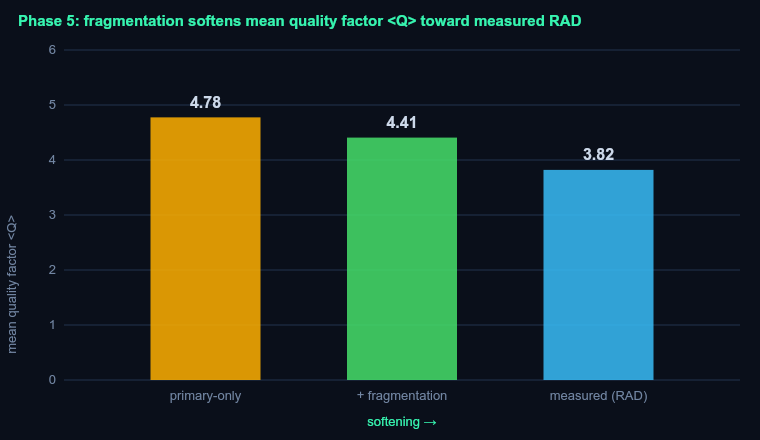
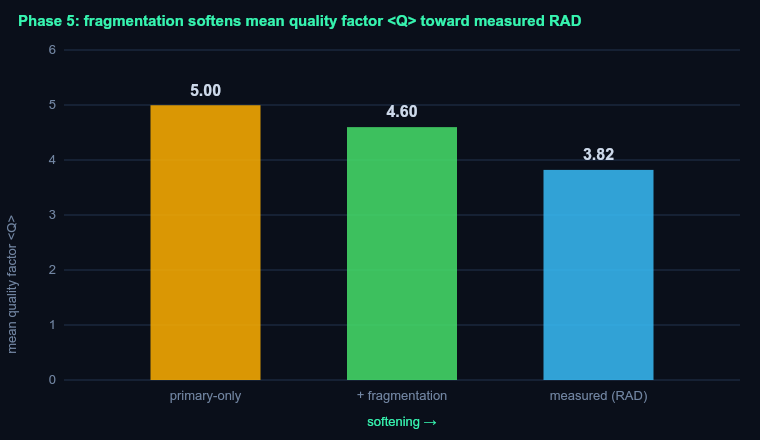
report: regenerate for W = 47.50 and the 0.20 GCR-flux uncertainty
Output of npm run report on this tree; regenerated byte-identical before commit.

Changed region(s): [[0.4539, 0.2364, 0.6053, 0.325], [0.1816, 0.1773, 0.3632, 0.2659]]

diff --git a/src/report/generateReport.ts b/src/report/generateReport.ts
@@ -20,7 +20,7 @@ import { computeShieldedDose } from '../dose/shieldedDose.js';
 import { computeFragmentedDose } from '../dose/fragmentedDose.js';
 import { interactionMFP } from '../physics/fragmentation.js';
 import { computeValidationSummary } from '../validation/validationSummary.js';
-import { doseRelUncertainty } from '../validation/uncertainty.js';
+import { doseRelUncertainty, GCR_FLUX_REL_UNC } from '../validation/uncertainty.js';
 import type { RadComparison } from '../dose/radComparison.js';
 import { RAD_CRUISE } from '../../data/rad/zeitlin2013.js';
 import { W_SOLAR_MIN, W_CRUISE_2012 } from '../../data/gcr/matthia2013.js';
@@ -270,8 +270,8 @@ below aluminium; polyethylene — the best *solid* — beats aluminium by **${fx
 
 ## 4. MSL/RAD cruise-dose validation (the headline number)
 
-Model run at the cruise solar modulation (φ≈${RAD_CRUISE.phi_MV_low}–${RAD_CRUISE.phi_MV_high} MV → Matthiä W≈${W_CRUISE_2012})
-behind ≈${RAD_CRUISE.shielding_gcm2} g/cm² Al-equivalent shielding — set **independently** of the measurement.
+Model run at the cruise solar modulation W = ${fx(W_CRUISE_2012, 2)}, derived from the OULU neutron-monitor mean over the Zeitlin et al. (2013) averaging window, excluding the days of the five SEP events listed by Guo et al. (2015), via the Matthiä relation (cruise φ≈${RAD_CRUISE.phi_MV_low}–${RAD_CRUISE.phi_MV_high} MV, Guo et al. 2015),
+behind ≈${RAD_CRUISE.shielding_gcm2} g/cm² of aluminium (Guo 2015 average depth; mixed materials represented as Al) — no constant fitted to the validation data.
 
 | quantity | model | measured (RAD) | ratio |
 |---|---|---|---|
@@ -280,11 +280,11 @@ behind ≈${RAD_CRUISE.shielding_gcm2} g/cm² Al-equivalent shielding — set **
 | mean quality ⟨Q⟩ | ${fx(rad.model.Q)} | ${fx(rad.measured.Q)} ± ${RAD_CRUISE.meanQ_sigma} | **${fx(rad.ratioQ)}** |
 
 Model dose-equivalent over the W/shielding brackets: **${fx(rad.H_lo)}–${fx(rad.H_hi)} mSv/day** — the
-measured **${fx(rad.measured.H)} mSv/day** lies inside this range.
+measured **${fx(rad.measured.H)} mSv/day** lies ${rad.measured.H >= rad.H_lo && rad.measured.H <= rad.H_hi ? 'inside' : 'OUTSIDE'} this range.
 
 With propagated input uncertainty the model value reads **H = ${fx(rad.model.H)} ±
 ${fx(rad.model.H * bandRel)} mSv/day** (±${fx(bandRel * 100, 1)}%, 1σ-style; quadrature of GCR-flux
-±14% — DLR-model deviation vs AMS-02 in the dose-dominant <1.5 GeV/n range, Norbury et al. 2018,
+±${fx(GCR_FLUX_REL_UNC * 100, 0)}% — DLR-model full-spectrum |Rd| vs AMS-02 hydrogen, Norbury et al. 2018,
 *Life Sci. Space Res.* 18, 64, Table 1 — and stopping-power ±4% — ICRU-49 compound bound — plus
 this run's computed ${fx(nistMaxSolid)}% PSTAR deviation). The band is **input uncertainty only**:
 it deliberately excludes the un-modeled secondary production discussed below, which is a scope

diff --git a/report/DOSEFIELD_report.md b/report/DOSEFIELD_report.md
@@ -60,21 +60,21 @@ below aluminium; polyethylene — the best *solid* — beats aluminium by **11.6
 
 ## 4. MSL/RAD cruise-dose validation (the headline number)
 
-Model run at the cruise solar modulation (φ≈550–800 MV → Matthiä W≈30)
-behind ≈16 g/cm² Al-equivalent shielding — set **independently** of the measurement.
+Model run at the cruise solar modulation W = 47.50, derived from the OULU neutron-monitor mean over the Zeitlin et al. (2013) averaging window, excluding the days of the five SEP events listed by Guo et al. (2015), via the Matthiä relation (cruise φ≈550–800 MV, Guo et al. 2015),
+behind ≈16 g/cm² of aluminium (Guo 2015 average depth; mixed materials represented as Al) — no constant fitted to the validation data.
 
 | quantity | model | measured (RAD) | ratio |
 |---|---|---|---|
-| absorbed dose [mGy/day] | 0.308 | 0.458 ± 0.032 | **0.67** |
-| dose-equivalent [mSv/day] | 1.47 | 1.75 ± 0.3 | **0.84** |
-| mean quality ⟨Q⟩ | 4.78 | 3.82 ± 0.25 | **1.25** |
+| absorbed dose [mGy/day] | 0.264 | 0.458 ± 0.032 | **0.58** |
+| dose-equivalent [mSv/day] | 1.32 | 1.75 ± 0.3 | **0.75** |
+| mean quality ⟨Q⟩ | 5.00 | 3.82 ± 0.25 | **1.31** |
 
-Model dose-equivalent over the W/shielding brackets: **1.25–1.77 mSv/day** — the
-measured **1.75 mSv/day** lies inside this range.
+Model dose-equivalent over the W/shielding brackets: **1.21–1.48 mSv/day** — the
+measured **1.75 mSv/day** lies OUTSIDE this range.
 
-With propagated input uncertainty the model value reads **H = 1.47 ±
-0.22 mSv/day** (±14.6%, 1σ-style; quadrature of GCR-flux
-±14% — DLR-model deviation vs AMS-02 in the dose-dominant <1.5 GeV/n range, Norbury et al. 2018,
+With propagated input uncertainty the model value reads **H = 1.32 ±
+0.27 mSv/day** (±20.5%, 1σ-style; quadrature of GCR-flux
+±20% — DLR-model full-spectrum |Rd| vs AMS-02 hydrogen, Norbury et al. 2018,
 *Life Sci. Space Res.* 18, 64, Table 1 — and stopping-power ±4% — ICRU-49 compound bound — plus
 this run's computed 1.55% PSTAR deviation). The band is **input uncertainty only**:
 it deliberately excludes the un-modeled secondary production discussed below, which is a scope
@@ -85,12 +85,12 @@ limit, not an input error.
 **Honest error discussion.** The model is within the ~2× bar the project sets for a
 primary-only result. The structure of the disagreement is physically meaningful:
 
-- **Absorbed dose is under-predicted** (ratio 0.67): RAD also records secondary particles
+- **Absorbed dose is under-predicted** (ratio 0.58): RAD also records secondary particles
   (neutrons, fragments) produced in the spacecraft, which add dose the primary-only model omits.
-- **⟨Q⟩ is over-predicted** (ratio 1.25): without nuclear fragmentation the HZE ions are not
+- **⟨Q⟩ is over-predicted** (ratio 1.31): without nuclear fragmentation the HZE ions are not
   broken into lower-LET fragments, and no low-Q secondaries dilute the field — both of which
   lower the *real* ⟨Q⟩.
-- These partially **cancel** in the dose-equivalent (H = D·⟨Q⟩), giving a closer ratio (0.84).
+- These partially **cancel** in the dose-equivalent (H = D·⟨Q⟩), giving a closer ratio (0.75).
 
 Measured values: Zeitlin et al., Science 340, 1080 (2013); Guo et al., A&A 577, A58 (2015).
 
@@ -111,7 +111,7 @@ Iron charge-changing mean free path (why hydrogen-rich shields win):
 | Polyethylene | 6.8 | 10% |
 
 At the RAD point (16 g/cm² Al, cruise W), fragmentation **softens ⟨Q⟩ toward the measured 3.82**
-(4.78 → 4.41), and the **polyethylene advantage at 20 g/cm² grows from
+(5.00 → 4.60), and the **polyethylene advantage at 20 g/cm² grows from
 11.6% to 33.3%** — i.e. fragmentation is *why* hydrogen-rich
 shielding wins, which the primary-only model under-states.
 
